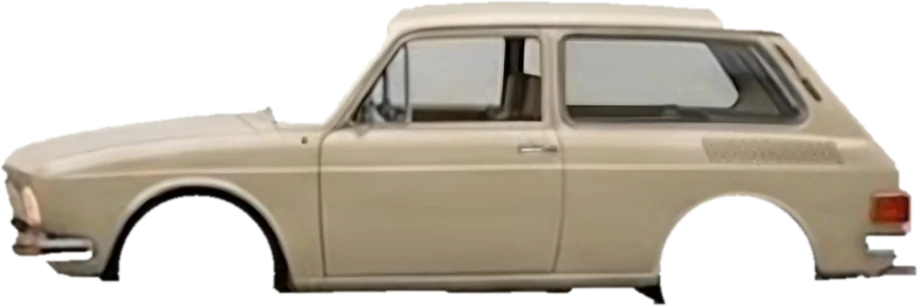
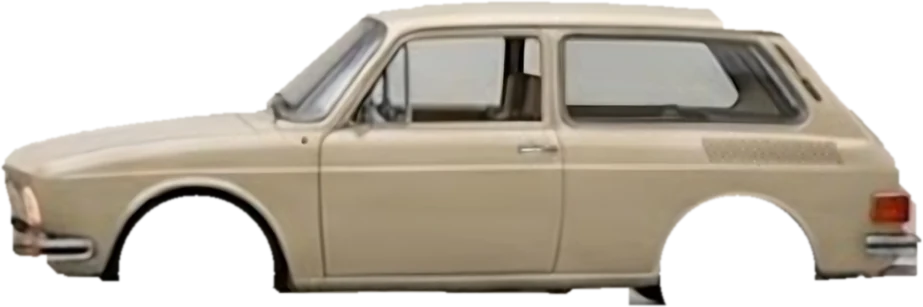
Katraka: recorte da Brasília (foto nova) e da Variant refeitos, com o vidro da frente
Claude-Session: https://claude.ai/code/session_01LCkFTaDN4uyqkZNRZ9pSrk

diff --git a/sites/katraka/index.html b/sites/katraka/index.html
@@ -783,18 +783,18 @@ html.travado,html.travado body{overflow:hidden}
             <image href="img/carro-variant-roda-d.webp" x="154.10" y="245.08" width="155.81" height="155.81"/>
             <image href="img/carro-variant-roda-t.webp" x="674.10" y="245.08" width="155.81" height="155.81"/>
             <g class="sobe">
-              <image href="img/carro-variant-corpo.webp" x="43.10" y="60.41" width="882.92" height="294.31"/>
+              <image href="img/carro-variant-corpo.webp" x="43.10" y="60.41" width="887.73" height="295.27"/>
               <path class="arco arco-f" d="M154.5 294.8A82.5 82.5 0 0 1 309.5 294.8"/>
               <path class="arco arco-r" d="M674.5 294.8A82.5 82.5 0 0 1 829.5 294.8"/>
             </g>
           </g>
-          <g class="modelo" data-carro="Brasília" data-yc="320.9">
-            <image href="img/carro-brasilia-roda-d.webp" x="152.07" y="240.93" width="159.86" height="159.86"/>
-            <image href="img/carro-brasilia-roda-t.webp" x="672.07" y="240.93" width="159.86" height="159.86"/>
+          <g class="modelo" data-carro="Brasília" data-yc="320.8">
+            <image href="img/carro-brasilia-roda-d.webp" x="152.83" y="241.65" width="158.34" height="158.34"/>
+            <image href="img/carro-brasilia-roda-t.webp" x="672.83" y="241.65" width="158.34" height="158.34"/>
             <g class="sobe">
-              <image href="img/carro-brasilia-corpo.webp" x="39.98" y="67.68" width="859.73" height="285.34"/>
-              <path class="arco arco-f" d="M152.3 291.8A84.9 84.9 0 0 1 311.7 291.8"/>
-              <path class="arco arco-r" d="M672.3 291.8A84.9 84.9 0 0 1 831.7 291.8"/>
+              <image href="img/carro-brasilia-corpo.webp" x="58.76" y="81.85" width="842.93" height="272.11"/>
+              <path class="arco arco-f" d="M152.2 291.8A84.9 84.9 0 0 1 311.8 291.8"/>
+              <path class="arco arco-r" d="M672.2 291.8A84.9 84.9 0 0 1 831.8 291.8"/>
             </g>
           </g>
           <g class="modelo" data-carro="SP2" data-yc="328.9">
